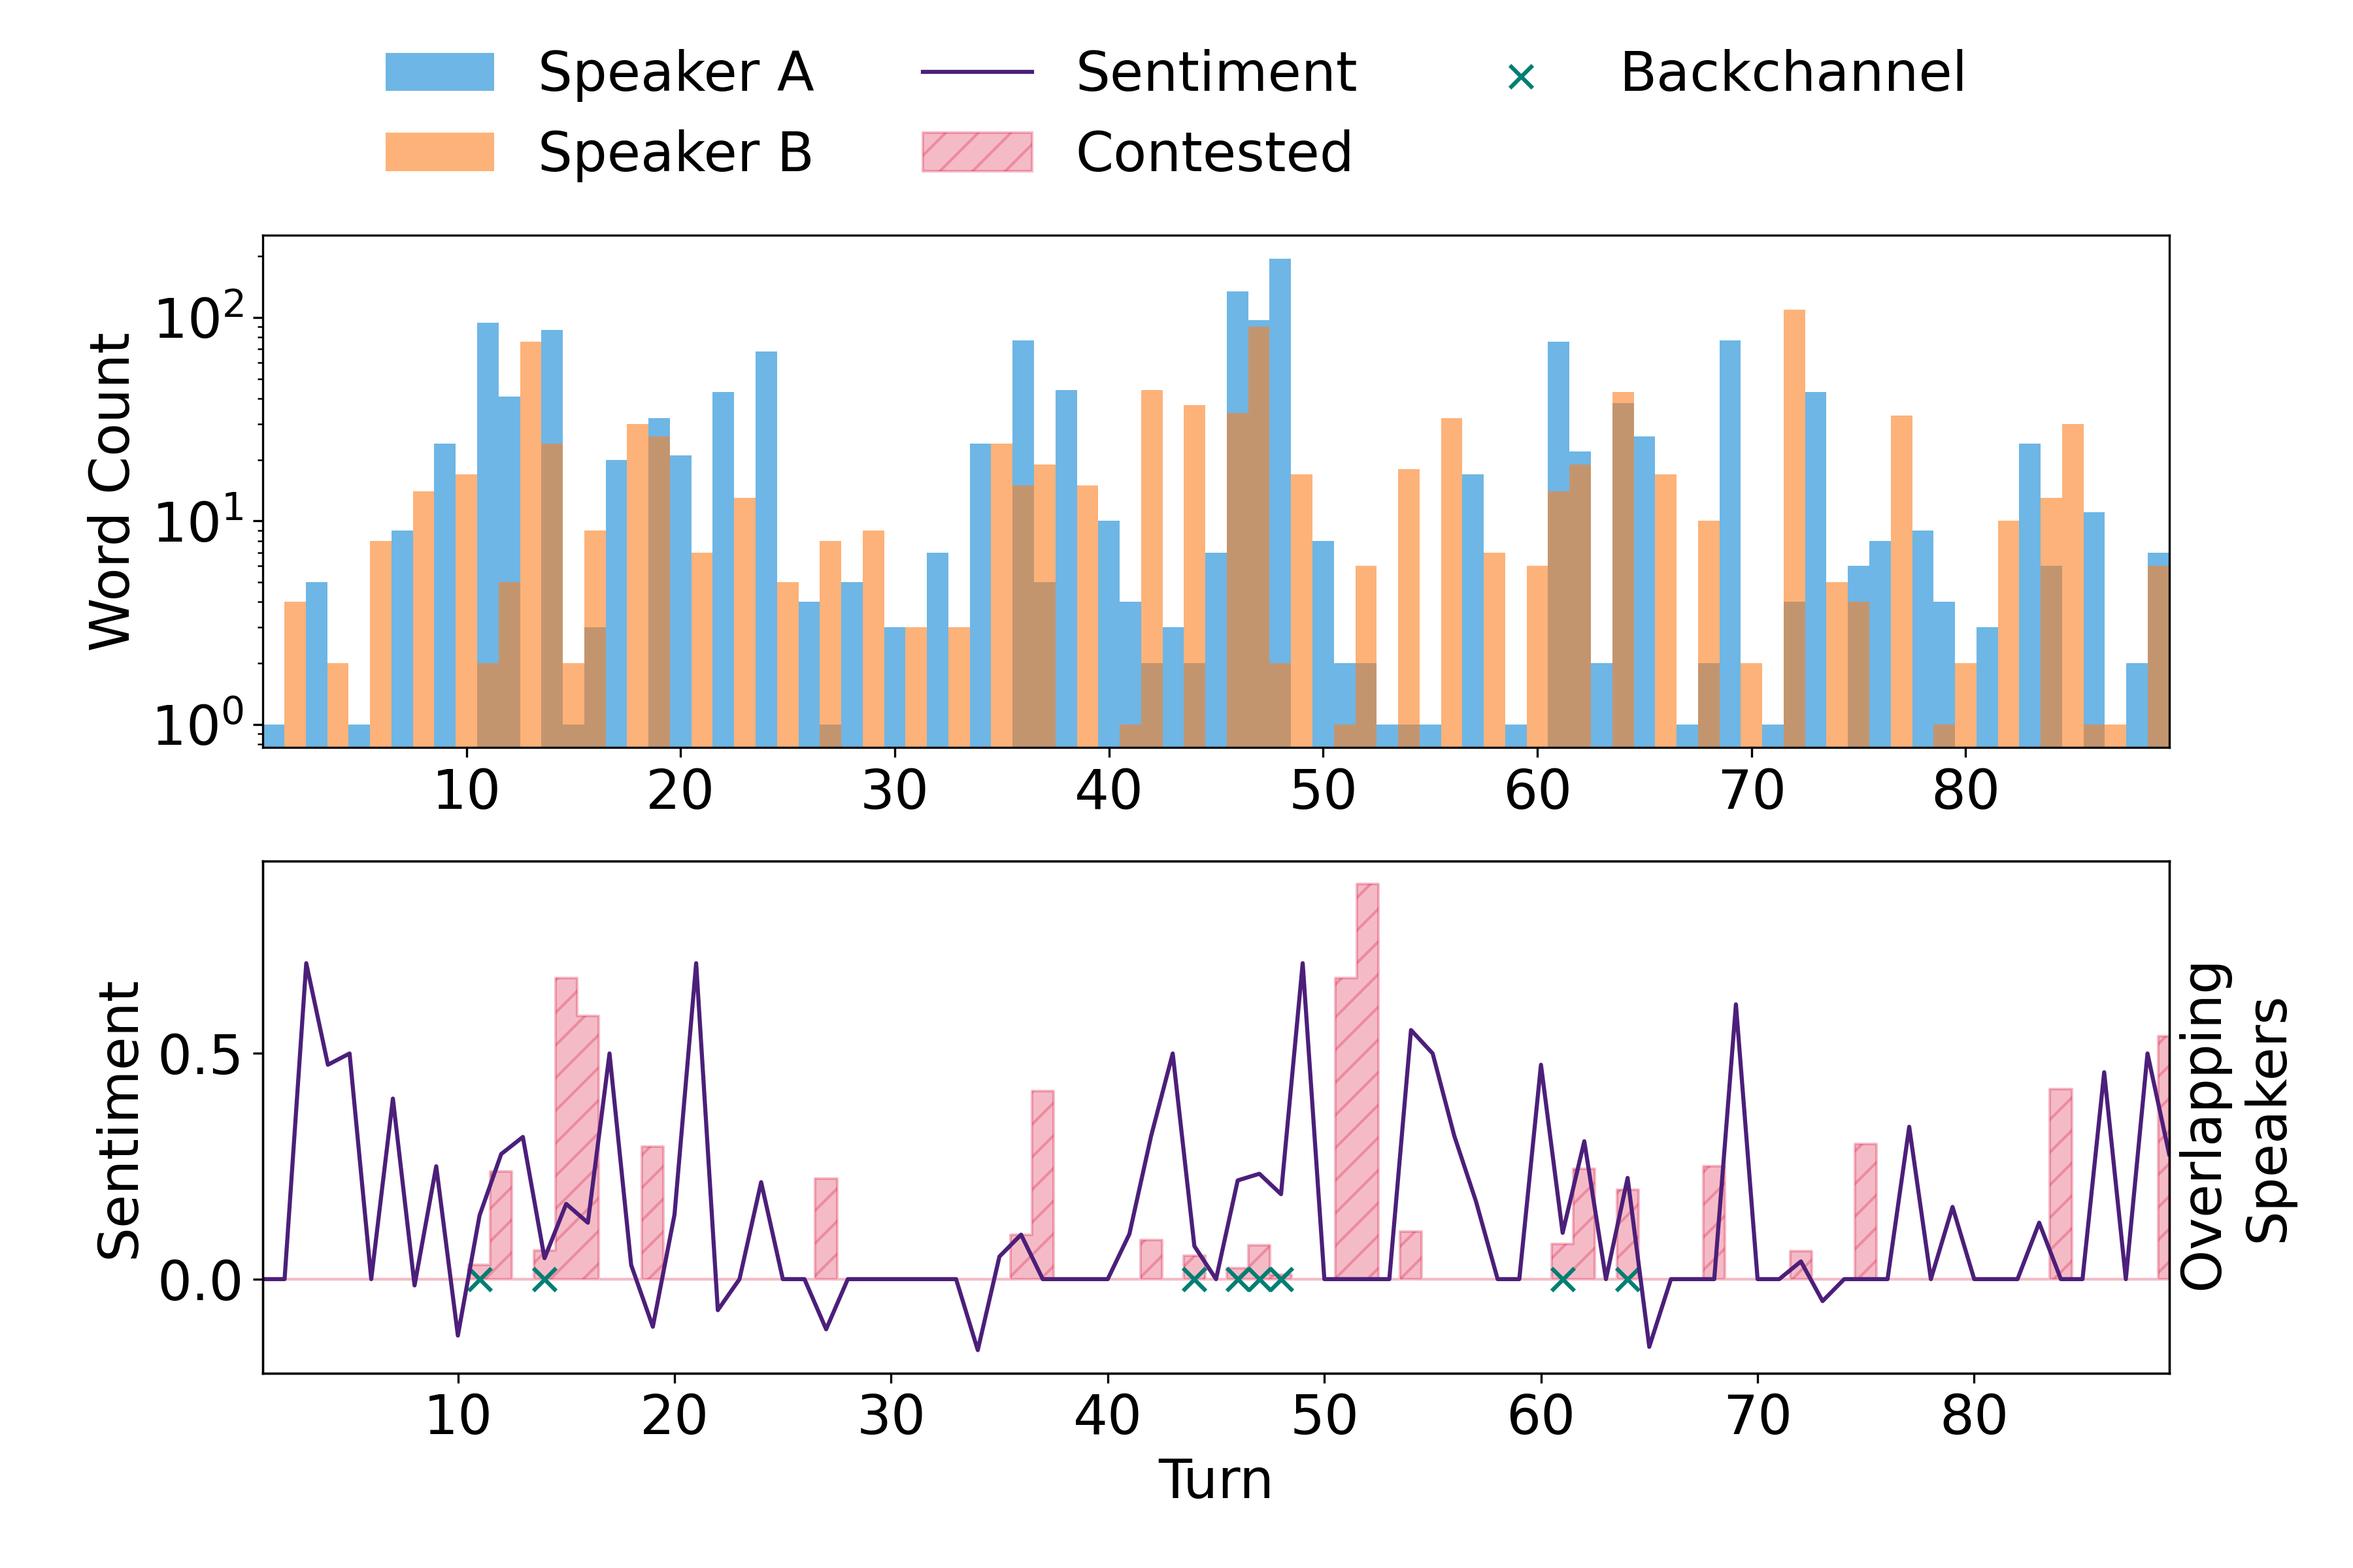
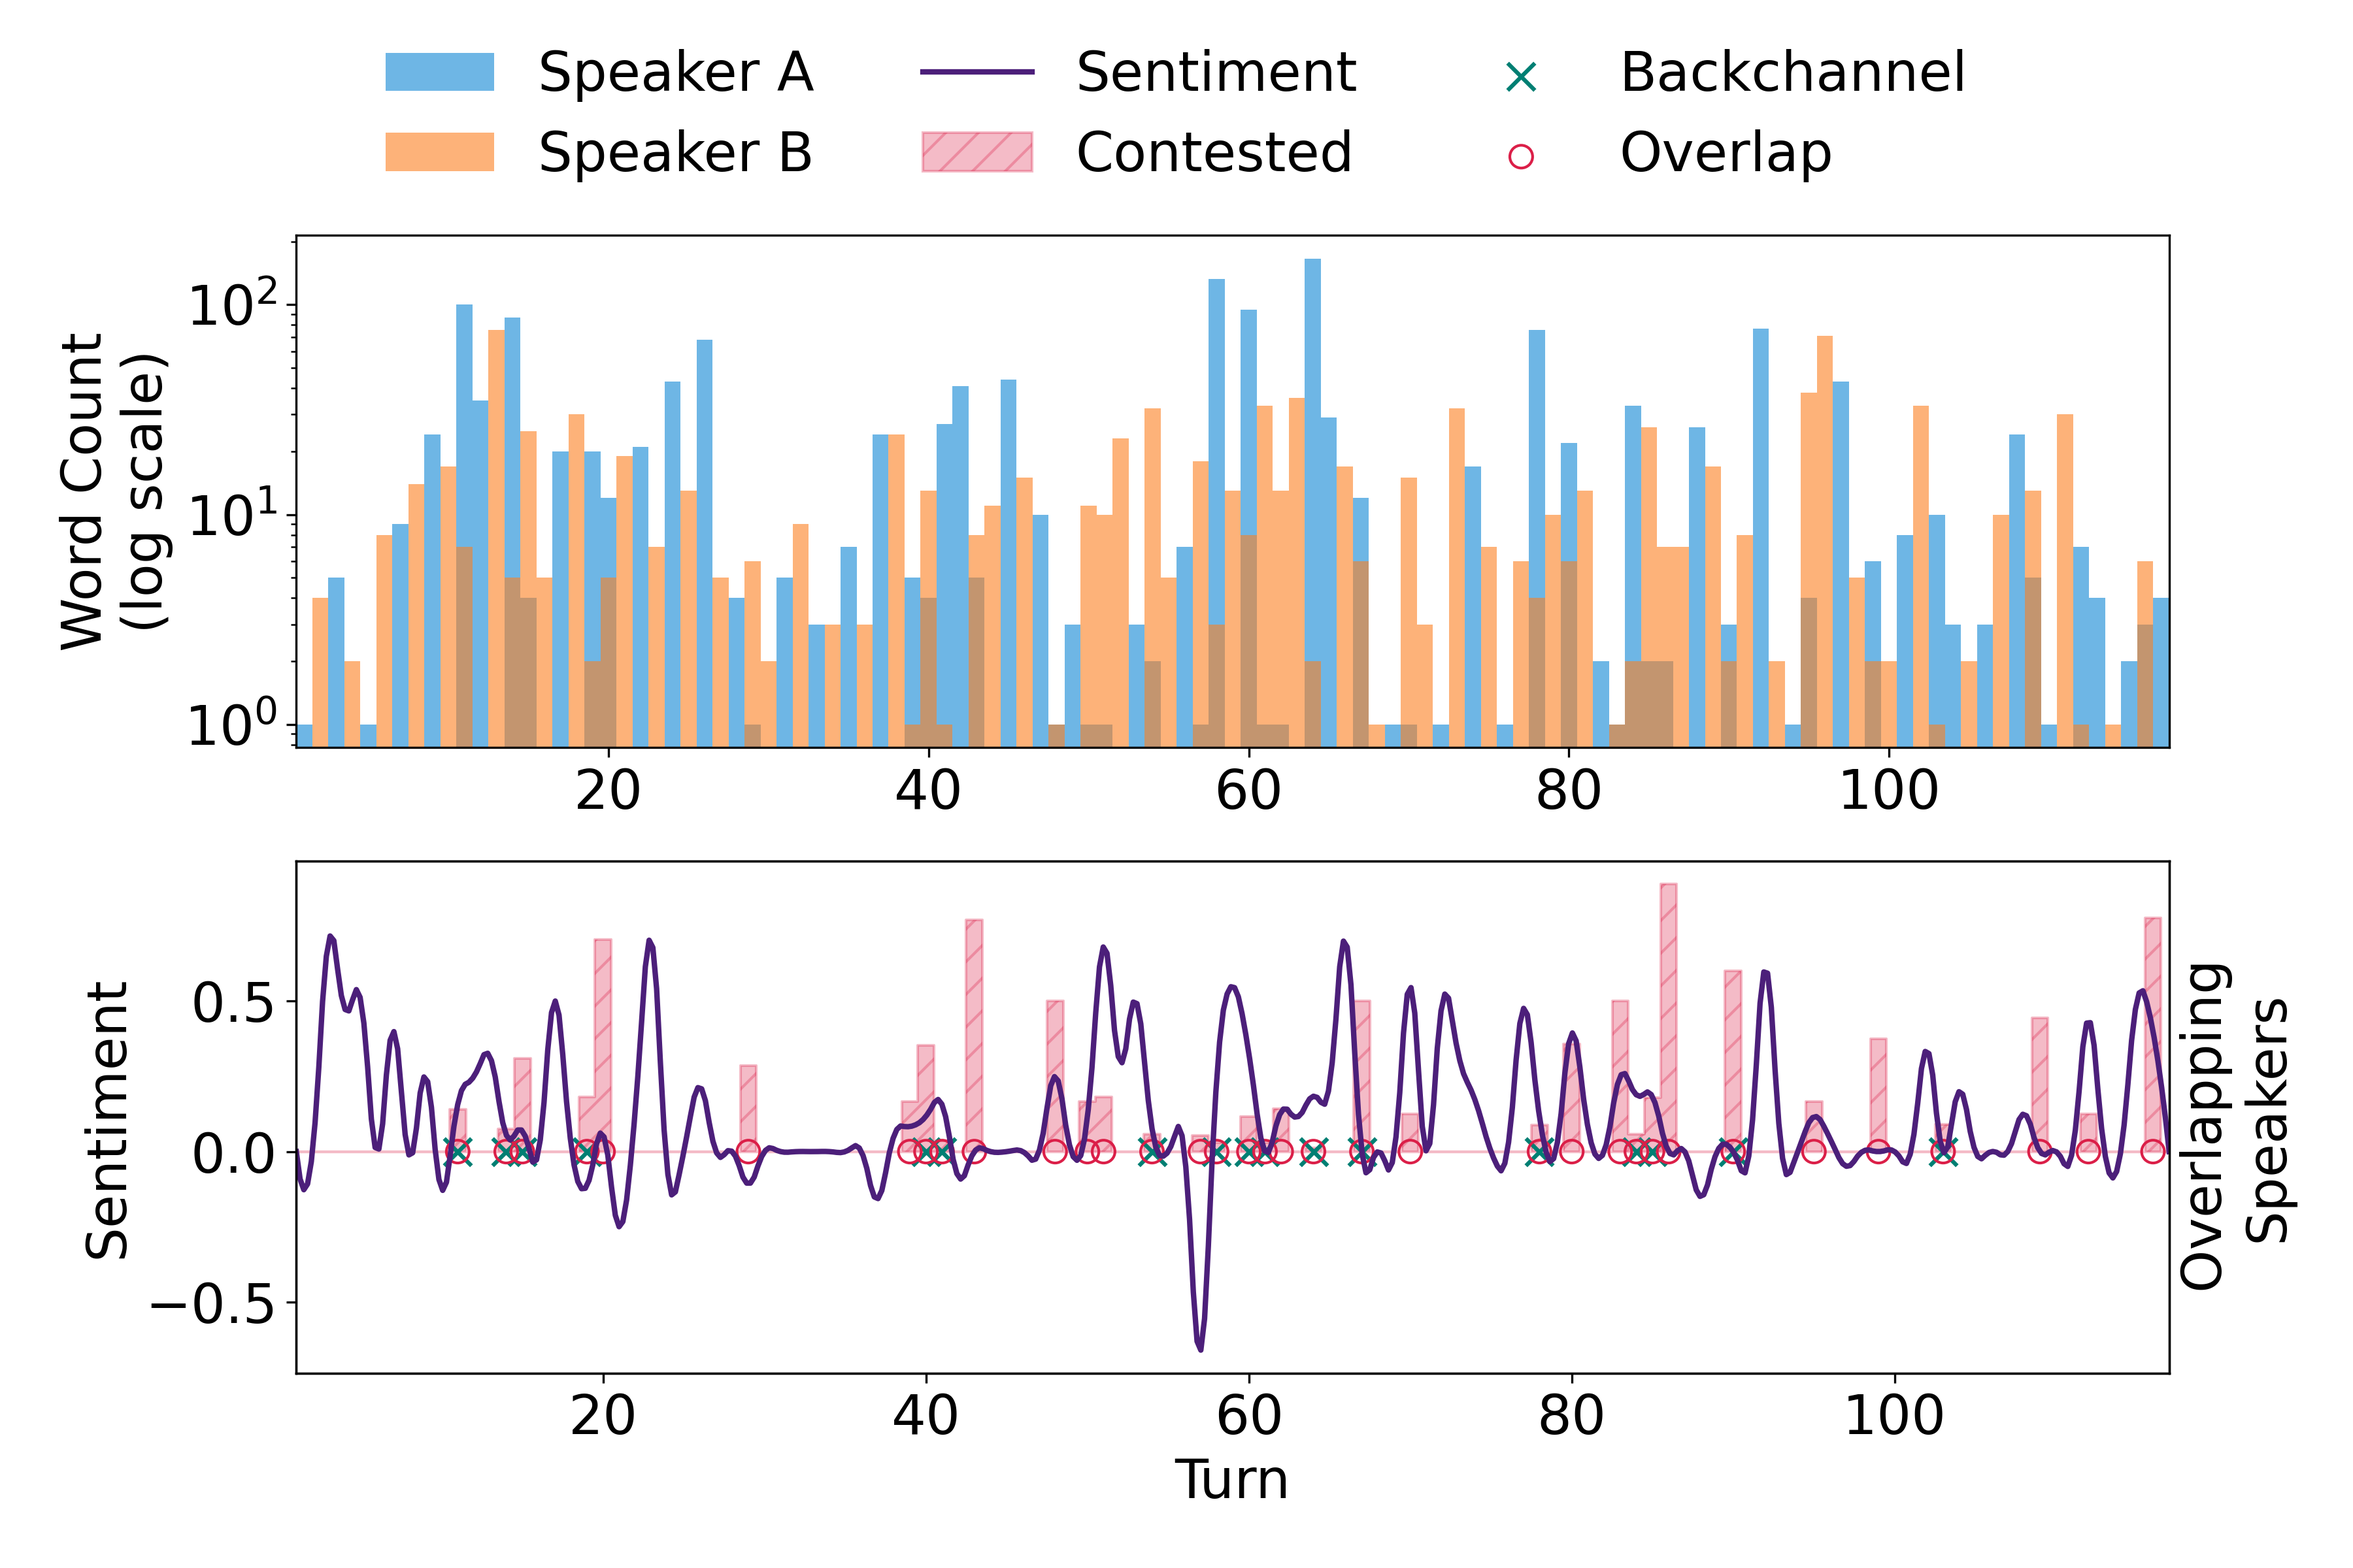
xxxx

diff --git a/Python/segmentPairs.py b/Python/segmentPairs.py
@@ -35,42 +35,31 @@ def process_turns_and_overlaps(data: pd.DataFrame) -> pd.DataFrame:
     data['Backchannel'] = 0
     data['Overlap'] = 0
     data['Turn'] = 0
+    data['Contested'] = 0
     current_turn = 0
     prev_speaker = None
     prev_end_time = 0
-    
-    
+            
+            
     for i, row in data.iterrows():
         try:
             # Check if it starts before the previous word has ended (indicating overlap or backchannel)
             is_overlap = row['Start Time'] < prev_end_time and row['Speaker'] != prev_speaker
 
             # Classify as backchannel if surrounding speakers are different speakers,
-            # and start_time_diff is > 10 showing infrequent interjection
+            # and start_time_diff is > 5 showing infrequent interjection
             # and while next start time diff is < 5 showing that the previous speaker was still going
-            if data.at[i, 'start_time_diff'] > 10 and \
+            if data.at[i, 'start_time_diff'] > 5 and \
                 data.at[i+1, 'start_time_diff'] < 5 and \
                 data.at[i, 'Speaker'] != (data.at[i-1, 'Speaker'] and data.at[i+1, 'Speaker']):
                     data.at[i, 'Backchannel'] = 1
-                    data.at[i, 'Turn'] = current_turn
-            # elif is_overlap and not is_backchannel_word:
             elif is_overlap:
-                # Otherwise, classify as overlap if it's not a backchannel word
                 data.at[i, 'Overlap'] = 1
-                data.at[i, 'Turn'] = current_turn  # Keep the turn number the same
-            elif i != 0 and (data.at[i - 1, 'Backchannel'] == 1 or data.at[i - 1, 'Overlap'] == 1):
-                # print(i, row)
-                data.at[i, 'Turn'] = current_turn
-            else:
-                # Increment turn only if it's a new speaker and not overlapping
-                # or if the previous row was an overlap or backchannel
-                if row['Speaker'] != prev_speaker:
-                    current_turn += 1
-                data.at[i, 'Turn'] = current_turn
-                
+
             # Update previous speaker and end time trackers
             prev_speaker = row['Speaker']
             prev_end_time = row['End Time']
+            
             
         except Exception as e:
             error_message = f"Error processing file: {str(e)}"
@@ -78,17 +67,29 @@ def process_turns_and_overlaps(data: pd.DataFrame) -> pd.DataFrame:
             
             continue
     
-    # Initialize the 'contest' column
-    data['Contest'] = 'uncontested'
-
     # Iterate through the DataFrame
-    for i in range(len(data)):
-        if data['Overlap'][i] == 1 and \
-            (np.sum(data['Overlap'][i-5:i]) == 0 and np.sum(data['Overlap'][i+1:i+5]) == 0):
-                data.loc[i, 'Contest'] = 'uncontested'
-        elif (data['Overlap'][i] == 1 and any(data['Overlap'][i+1:i+5] == 1)) or \
+    for i, row in data.iterrows():
+        if (data['Overlap'][i] == 1 and any(data['Overlap'][i+1:i+6] == 1)) or \
             (any(data['Overlap'][i-5:i+1] == 1) and any(data['Overlap'][i:i+5] == 1)):
-            data.loc[i, 'Contest'] = 'contested'
+            data.loc[i, 'Contested'] = 1
+            
+        if i == 0:
+            data.at[i, 'Turn'] = 1
+        elif data.at[i, 'Backchannel'] == 1: # ignore all backchannels for turn calculation
+            data.at[i, 'Turn'] = data['Turn'][i-1]
+        elif (i != 0 and data.at[i - 1, 'Backchannel'] == 1): # ignore if previous row was a backchannel
+                data.at[i, 'Turn'] = data['Turn'][i-1]
+        elif (i != 0 and (data.at[i, 'Contested'] == 1)): # All contested current and previous periods belong to speaker in prior turn
+            data.at[i, 'Turn'] = data['Turn'][i-1]
+        elif (i > 1
+              and data['Speaker'][i] != data['Speaker'][i-2]
+              and data['Contested'][i-1] == 1
+              and all(data['Contested'][i:i+5] == 0)): # End of contested period and on to new speaker
+                data.at[i, 'Turn'] = data['Turn'][i-1] + 1
+        elif (i != 0 and data['Speaker'][i] != data['Speaker'][i-1]): # different speaker
+            data.at[i, 'Turn'] = data['Turn'][i-1] + 1
+        else:
+            data.at[i, 'Turn'] = data['Turn'][i-1]
             
     return data
 
@@ -108,8 +109,8 @@ def turn_level_outcomes(data: pd.DataFrame) -> pd.DataFrame:
     turn_data['word_count'] = turn_data['Word'].str.split().str.len()
 
     # Calculate midpoint time boundaries between turns
-    # turn_data['Time_Boundary'] = (turn_data['End Time'].shift(1) + turn_data['Start Time']) / 2
-    # turn_data.loc[0, 'Time_Boundary'] = turn_data.loc[0, 'Start Time']  # Set the first boundary to its start time
+    turn_data['Time_Boundary'] = (turn_data['End Time'].shift(1) + turn_data['Start Time']) / 2
+    turn_data.loc[0, 'Time_Boundary'] = turn_data.loc[0, 'Start Time']  # Set the first boundary to its start time
     
     turn_data.rename(columns={'Word':'Sent', 'Start Time':'Turn Start', 'End Time': 'Turn End'}, inplace=True)
     
@@ -168,10 +169,15 @@ def stack_files_by_group(metadata, base_directory, output_directory):
                 try:
                     # Read the CSV file
                     df = pd.read_csv(file_path)
+                    
+                    df['Speaker_A'] = 0
+                    df['Speaker_B'] = 0
 
                     # Add a column for the file name and Speaker ('A' for the first file, 'B' for the second)
                     df['SourceFile'] = file
                     df['Speaker'] = 'A' if i == 0 else 'B'
+                    df['Speaker_A'] = 1 if i == 0 else 0
+                    df['Speaker_B'] = 1 if i != 0 else 0
 
                     # Append the dataframe to the list
                     group_dfs.append(df)
@@ -184,7 +190,7 @@ def stack_files_by_group(metadata, base_directory, output_directory):
                 stacked_df = pd.concat(group_dfs, ignore_index=True)
                 stacked_df = process_turns_and_overlaps(stacked_df)
                 turn_df = turn_level_outcomes(stacked_df)
-                merged_df = stacked_df.merge(turn_df, left_on = ['Turn', 'Speaker'], right_on = ['Turn', 'Speaker'])
+                merged_df = stacked_df.merge(turn_df, left_on = ['Turn', 'Speaker'], right_on = ['Turn', 'Speaker'], how = 'left')
                 save_group_stacked_data(merged_df, group, output_directory, log_file)
 
     return merged_df

diff --git a/Python/sentiment_time_plot.py b/Python/sentiment_time_plot.py
@@ -10,7 +10,7 @@ from scipy.interpolate import interp1d
 def plot_sentiment_time_series(word_level_data):
     
     # Create a binary column for "Contest" (1 if contested, 0 if uncontested)
-    word_level_data['is_contested'] = word_level_data['Contest'].apply(lambda x: 1 if x == 'contested' else 0)
+    # word_level_data['is_contested'] = word_level_data['Contested'].apply(lambda x: 1 if x == 1 else 0)
     word_level_data['Duration'] = word_level_data['End Time'] - word_level_data['Start Time']
 
     # Group by 'Speaker' and 'Turn' and perform aggregations
@@ -21,13 +21,13 @@ def plot_sentiment_time_series(word_level_data):
         avg_sentiment=('Sentiment', 'mean'),
         count_backchannels=('Backchannel', 'sum'),
         mean_overlaps=('Overlap', 'mean'),
-        mean_contested=('is_contested', 'mean'),
+        mean_contested=('Contested', 'mean'),
         avg_duration=('Duration', 'mean')
     ).reset_index()
 
     turn_speaker_data['midTime'] = (turn_speaker_data['start_time'] + turn_speaker_data['end_time']) / 2
-    # turn_speaker_data['Turn_duration'] = turn_speaker_data['end_time'] - turn_speaker_data['start_time']
-    turn_speaker_data['Turn_duration'] = (turn_speaker_data['start_time'] + turn_speaker_data['end_time']) / turn_speaker_data['midTime']
+    turn_speaker_data['Turn_duration'] = turn_speaker_data['end_time'] - turn_speaker_data['start_time']
+    # turn_speaker_data['Turn_duration'] = (turn_speaker_data['start_time'] + turn_speaker_data['end_time']) / turn_speaker_data['midTime']
     turn_speaker_data = turn_speaker_data.sort_values(by='midTime')
     
     # Group by 'Turn' and perform aggregations
@@ -38,12 +38,13 @@ def plot_sentiment_time_series(word_level_data):
         avg_sentiment=('Sentiment', 'mean'),
         count_backchannels=('Backchannel', 'sum'),
         mean_overlaps=('Overlap', 'mean'),
-        mean_contested=('is_contested', 'mean'),
+        mean_contested=('Contested', 'mean'),
         avg_duration=('Duration', 'mean')
     ).reset_index()
 
-    turn_level_data['Time'] = (turn_level_data['start_time'] + turn_level_data['end_time']) / 2
-    turn_level_data = turn_level_data.sort_values(by='Time')
+    turn_level_data['midTime'] = (turn_level_data['start_time'] + turn_level_data['end_time']) / 2
+    turn_level_data['Turn_duration'] = turn_level_data['end_time'] - turn_level_data['start_time']
+    turn_level_data = turn_level_data.sort_values(by='midTime')
 
 
     # Prepare the DataFrame by calculating midpoint times for each turn
@@ -64,6 +65,7 @@ def plot_sentiment_time_series(word_level_data):
         turn_speaker_data_A['Turn'], 
         turn_speaker_data_A['avg_word_count'],
         align = 'center',
+        # width = turn_speaker_data_A['Turn_duration'],
         width = 1,
         edgecolor='none',
         label="Speaker A",
@@ -76,6 +78,7 @@ def plot_sentiment_time_series(word_level_data):
         turn_speaker_data_B['Turn'], 
         turn_speaker_data_B['avg_word_count'],
         align = 'center',
+        # width = turn_speaker_data_B['Turn_duration'],
         width = 1,
         edgecolor='none',
         label="Speaker B",
@@ -98,6 +101,17 @@ def plot_sentiment_time_series(word_level_data):
     ax2.fill_between(turn_level_data['Turn'], turn_level_data['mean_contested'],
              label='Contested',
              alpha=0.3, step='mid', hatch='//', color = '#db1f48', facecolor = '#db1f48')
+    
+    # ax2.bar(
+    #     turn_level_data['midTime'], 
+    #     turn_level_data['mean_contested'],
+    #     align = 'center',
+    #     width = turn_level_data['Turn_duration'],
+    #     # edgecolor='none',
+    #     label="Contested",
+    #     hatch='//', color = '#db1f48', facecolor = '#db1f48',
+    #     alpha = .3
+    # )
     
     mask_Back = turn_level_data['count_backchannels'] != 0
     
